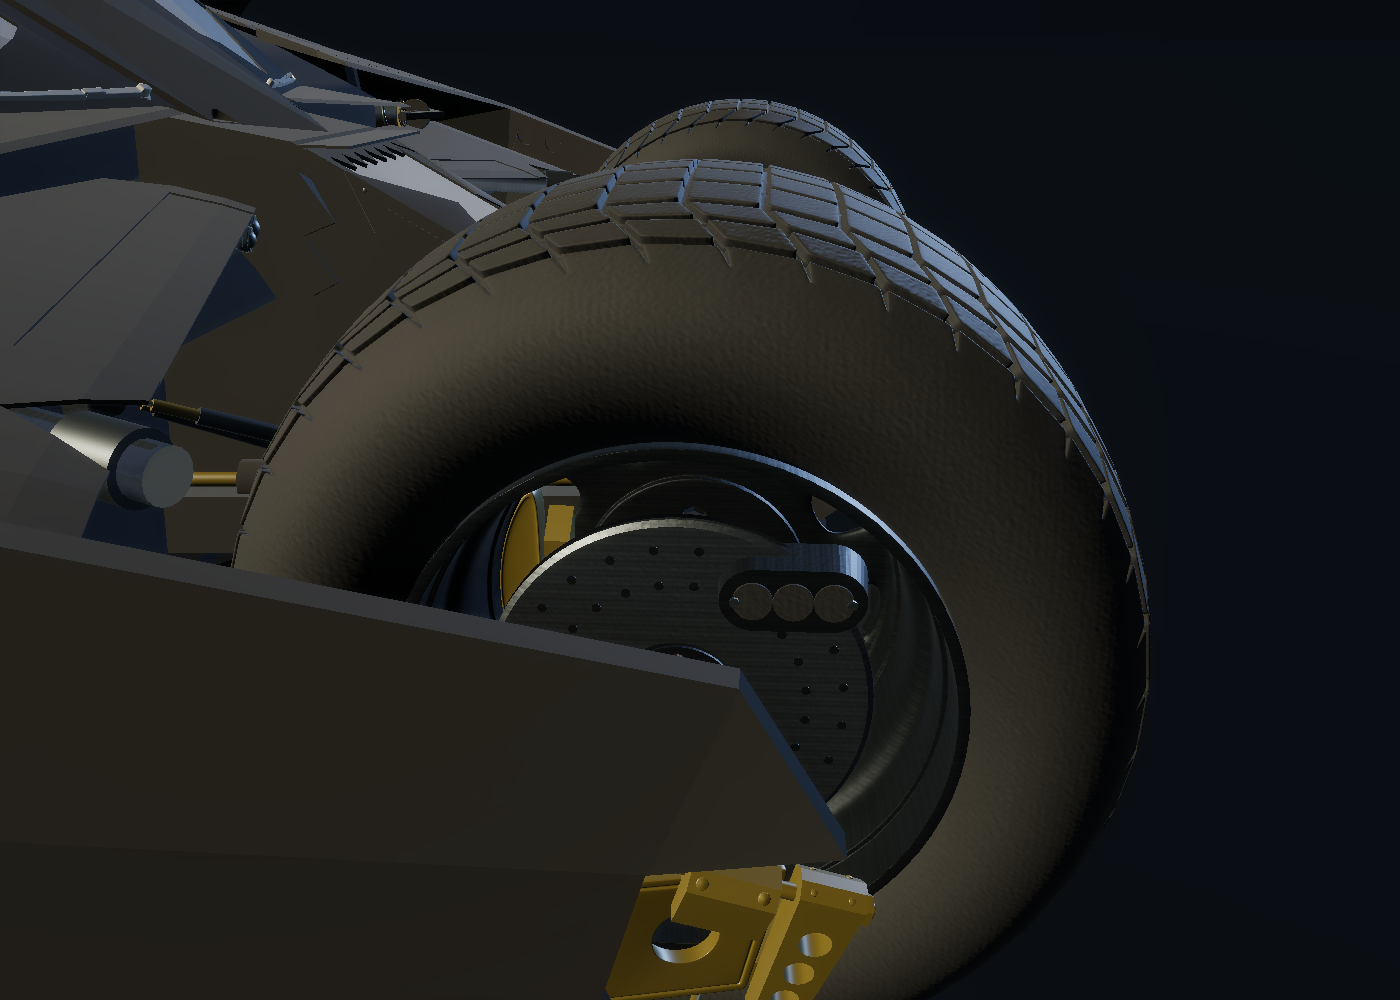
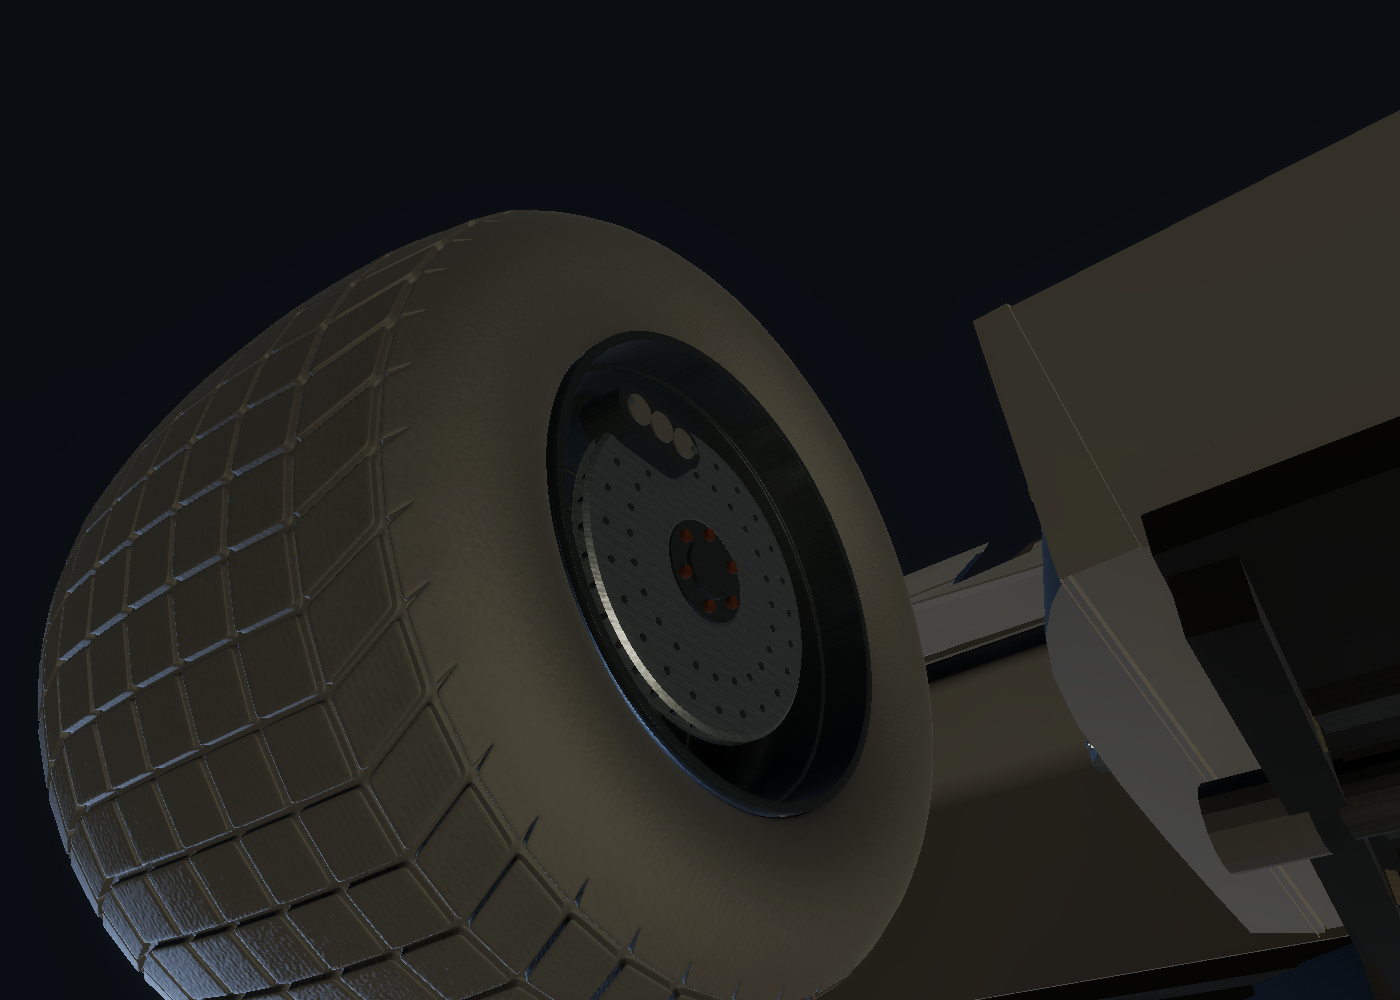
fix: mount all six brake assemblies on inner wheel faces

diff --git a/tools/night-systems/NightSystemsVerify.cs b/tools/night-systems/NightSystemsVerify.cs
@@ -241,12 +241,22 @@ public static class NightSystemsVerify
             var vertices=wheel.vertices;float rimRadius=wheel.GetTriangles(slot).Select(j=>new Vector2(vertices[j].y,vertices[j].z).magnitude).Max();
             var rotor=rotors[i].GetComponent<MeshFilter>().sharedMesh;float radius=rotor.vertices.Max(p=>new Vector2(p.y,p.z).magnitude);
             Check(radius<rimRadius*.71f,"Sport rotor "+i+" fits within 71 percent of the original rim radius");
-            int intersections=0;
+            float side=Mathf.Sign(car.transform.InverseTransformPoint(visuals[i].position).x);
+            float axial=(rotors[i].transform.localPosition.x-wheel.bounds.center.x)*side;
+            Check(axial<-.10f&&Mathf.Abs(axial)+rotor.bounds.extents.x<wheel.bounds.extents.x-.01f,"Rotor "+i+" is mounted on the inner wheel face and remains within the wheel envelope");
+            Check(Get<Vector3[]>(brakes,"caliperOffsets")[i].x*side<axial&&Get<Transform[]>(brakes,"calipers")[i].localScale.x==-side,"Caliper "+i+" follows the inboard disc with its detailed face toward the chassis");
+            int intersections=0,caliperIntersections=0;
+            var caliper=Get<Transform[]>(brakes,"calipers")[i];var caliperMesh=caliper.GetComponent<MeshFilter>().sharedMesh.bounds;
+            var box=caliper.gameObject.AddComponent<BoxCollider>();box.center=Vector3.zero;
+            var extent=caliperMesh.extents+new Vector3(Mathf.Abs(caliperMesh.center.x),Mathf.Abs(caliperMesh.center.y),Mathf.Abs(caliperMesh.center.z));
+            box.size=extent*2+Vector3.one*.002f;
             foreach(float angle in i<2?new[]{-40f,0f,40f}:new[]{0f})foreach(float travel in new[]{-.15f,0f,.15f})
             {
                 var rotation=car.transform.rotation*Quaternion.Euler(0,angle,0)*Quaternion.Inverse(car.transform.rotation)*visuals[i].rotation;
                 var center=visuals[i].position+car.transform.up*travel+rotation*rotors[i].transform.localPosition;
                 var axle=rotation*Vector3.right;
+                var caliperPosition=visuals[i].position+car.transform.up*travel+rotation*Get<Vector3[]>(brakes,"caliperOffsets")[i];
+                if(Physics.ComputePenetration(box,caliperPosition,rotation,surface,surface.transform.position,surface.transform.rotation,out var direction,out float depth)&&depth>.001f)caliperIntersections++;
                 foreach(float band in new[]{.45f,.70f,.93f})for(int j=0;j<32;j++)
                 {
                     float a=j*Mathf.PI*2/32;var p=center+rotation*new Vector3(0,Mathf.Cos(a)*radius*band,Mathf.Sin(a)*radius*band);
@@ -254,6 +264,8 @@ public static class NightSystemsVerify
                 }
             }
             Check(intersections==0,"Sport rotor "+i+" friction ring clears body surfaces across tested steering and suspension poses; hits="+intersections);
+            UnityEngine.Object.DestroyImmediate(box);
+            Check(caliperIntersections==0,"Inboard caliper "+i+" clears body and suspension surfaces at the tested poses; hits="+caliperIntersections);
         }
         UnityEngine.Object.DestroyImmediate(obstacle);
     }

diff --git a/tools/night-systems/MoveBrakeDiscsInboard.cs b/tools/night-systems/MoveBrakeDiscsInboard.cs
@@ -1,0 +1,45 @@
+using System;
+using System.Linq;
+using UnityEditor;
+using UnityEditor.SceneManagement;
+using UnityEngine;
+
+/// <summary>Moves existing brake assemblies onto the wheel faces that point toward the chassis.</summary>
+public static class MoveBrakeDiscsInboard
+{
+    public static void Run()
+    {
+        try
+        {
+            EditorSceneManager.OpenScene("Assets/_Project/Scenes/Sandbox.unity");
+            var vehicle=GameObject.Find("Tumbler").transform;
+            var thermal=new SerializedObject(vehicle.GetComponent<BrakeDiscThermal>());
+            var wheels=thermal.FindProperty("wheelVisuals");var rotors=thermal.FindProperty("rotors");
+            var calipers=thermal.FindProperty("calipers");var offsets=thermal.FindProperty("caliperOffsets");
+            for(int i=0;i<wheels.arraySize;i++)
+            {
+                var wheel=(Transform)wheels.GetArrayElementAtIndex(i).objectReferenceValue;
+                var rotor=((Renderer)rotors.GetArrayElementAtIndex(i).objectReferenceValue).transform;
+                var caliper=(Transform)calipers.GetArrayElementAtIndex(i).objectReferenceValue;
+                var mesh=wheel.GetComponent<MeshFilter>().sharedMesh;var center=mesh.bounds.center;
+                var materials=wheel.GetComponent<Renderer>().sharedMaterials;
+                int rim=Array.FindIndex(materials,m=>m.name=="Forged_Gunmetal");
+                if(rim<0)throw new Exception("Missing rim on "+wheel.name);
+                float side=Mathf.Sign(vehicle.InverseTransformPoint(wheel.TransformPoint(center)).x);
+                var vertices=mesh.vertices;var axial=mesh.GetTriangles(rim).Select(j=>(vertices[j].x-center.x)*side).ToArray();
+                float mount=-Mathf.Min(axial.Max(),mesh.bounds.extents.x)+.055f;
+                rotor.localPosition=center+Vector3.right*(side*mount);
+                var offset=offsets.GetArrayElementAtIndex(i).vector3Value;offset.x=side*(mount-.01f);
+                offsets.GetArrayElementAtIndex(i).vector3Value=offset;
+                caliper.localPosition=vehicle.InverseTransformPoint(wheel.TransformPoint(center))+offset;
+                caliper.localScale=new Vector3(-side,1,1);
+                EditorUtility.SetDirty(rotor);EditorUtility.SetDirty(caliper);
+                Debug.Log("INBOARD BRAKE "+i+" wheel="+wheel.name+" mount="+mount+" rimInner="+axial.Min()+" rimOuter="+axial.Max());
+            }
+            thermal.ApplyModifiedPropertiesWithoutUndo();
+            EditorSceneManager.MarkSceneDirty(vehicle.gameObject.scene);EditorSceneManager.SaveScene(vehicle.gameObject.scene);
+            Debug.Log("BRAKE ASSEMBLIES MOVED INBOARD");EditorApplication.Exit(0);
+        }
+        catch(Exception e){Debug.LogException(e);EditorApplication.Exit(1);}
+    }
+}

diff --git a/tools/night-systems/AuthorNightSystems.cs b/tools/night-systems/AuthorNightSystems.cs
@@ -170,15 +170,16 @@ public static class AuthorNightSystems
             float side=Mathf.Sign(vehicle.InverseTransformPoint(w.position).x);var vertices=mf.sharedMesh.vertices;
             foreach(int j in mf.sharedMesh.GetTriangles(Mathf.Max(0,ri)))
             {var p=vertices[j]-bounds.center;radius=Mathf.Max(radius,new Vector2(p.y,p.z).magnitude);outside=Mathf.Max(outside,p.x*side);}
-            radius*=.69f;outside=Mathf.Min(outside,bounds.extents.x)-.055f;
+            radius*=.69f;float inside=-Mathf.Min(outside,bounds.extents.x)+.055f;
             var g=new NightGeometry(3);g.Rotor(radius,.024f);
             var mesh=Store(g.Mesh("Brake_Disc_"+i),Art+"Meshes/Brake_Disc_"+i+".asset");
-            var disc=Model("Ventilated Brake Disc",w,mesh,steel,dark,bronze);disc.transform.localPosition=bounds.center+Vector3.right*(side*outside);
+            var disc=Model("Ventilated Brake Disc",w,mesh,steel,dark,bronze);disc.transform.localPosition=bounds.center+Vector3.right*(side*inside);
             rotors.Add(disc);centers.Add(bounds.center);
             var housing=new NightGeometry(3);housing.RoundedCaliper();
             var caliper=Model("Fixed Brake Caliper "+i,parent,Store(housing.Mesh("Brake_Caliper_"+i),Art+"Meshes/Brake_Caliper_"+i+".asset"),dark,rubber,steel);
-            var offset=new Vector3(side*(outside+.01f),radius*.65f,radius*.57f);offsets.Add(offset);
+            var offset=new Vector3(side*(inside-.01f),radius*.65f,radius*.57f);offsets.Add(offset);
             caliper.transform.localPosition=vehicle.InverseTransformPoint(w.TransformPoint(bounds.center))+offset;
+            caliper.transform.localScale=new Vector3(-side,1,1);
             calipers.Add(caliper.transform);
             for(int j=0;j<mats.Length;j++)
             {
@@ -187,7 +188,7 @@ public static class AuthorNightSystems
                 else if(mats[j].name.Contains("silver_nut"))mats[j]=steel;
             }
             r.sharedMaterials=mats;
-            Debug.Log("BRAKE FIT "+i+" radius="+radius+" axleOffset="+outside+" wheelMeshCenter="+bounds.center);
+            Debug.Log("BRAKE FIT "+i+" radius="+radius+" inboardAxleOffset="+inside+" wheelMeshCenter="+bounds.center);
         }
         var s=new SerializedObject(thermal);
         SetObjects(s,"wheels",wc.Cast<UnityEngine.Object>().ToArray());SetObjects(s,"wheelVisuals",visuals.Cast<UnityEngine.Object>().ToArray());

diff --git a/tools/night-systems/NightSystemsPreview.cs b/tools/night-systems/NightSystemsPreview.cs
@@ -64,11 +64,15 @@ public static class NightSystemsPreview
             Pose(new Vector3(2.15f,.45f,4.35f),new Vector3(.35f,-.1f,1.6f));Capture("headlight-optics-off",1600,1000);
             systems.SetLightMode(TumblerSystems.LightMode.High);Capture("headlight-optics-high",1600,1000);systems.SetLightMode(TumblerSystems.LightMode.Off);
             var brakes=vehicle.GetComponent<BrakeDiscThermal>();var rotors=Get<Renderer[]>(brakes,"rotors");
-            Pose(new Vector3(2.20f,.15f,2.45f),new Vector3(.94f,-.35f,2.375f));Capture("front-brake-cold",1400,1000);
+            key.transform.rotation=Quaternion.Euler(-35,110,0);fill.transform.rotation=Quaternion.Euler(-10,-75,0);
+            Pose(new Vector3(0,-1.15f,3.2f),new Vector3(.67f,-.35f,2.375f));Capture("front-brake-cold",1400,1000);
+            Pose(new Vector3(0,-1f,-3.5f),new Vector3(.61f,-.15f,-2.138f));Capture("rear-brake-inboard-cold",1400,1000);
             var block=new MaterialPropertyBlock();foreach(var r in rotors){block.SetColor("_BaseColor",new Color(.75f,.045f,.008f));block.SetColor("_EmissiveColor",new Color(1,.07f,.002f)*35);r.SetPropertyBlock(block,0);}
+            Pose(new Vector3(0,-1.15f,3.2f),new Vector3(.67f,-.35f,2.375f));
             Capture("front-brake-hot",1400,1000);
-            Pose(new Vector3(3.1f,.35f,-2.8f),new Vector3(1.15f,-.1f,-2.14f));Capture("rear-brakes-hot",1600,1000);
+            Pose(new Vector3(0,-1f,-3.5f),new Vector3(.61f,-.15f,-2.138f));Capture("rear-brakes-hot",1600,1000);
             foreach(var r in rotors)r.SetPropertyBlock(null,0);
+            key.transform.rotation=Quaternion.Euler(36,-32,0);fill.transform.rotation=Quaternion.Euler(12,120,0);
             Pose(new Vector3(.46f,.46f,-1.98f),new Vector3(.25f,-.10f,-1.52f));Capture("turbo-tanks-installed",1600,1100);
             var bodyFilter=vehicle.Find("Body").GetComponent<MeshFilter>();var bodyMesh=bodyFilter.sharedMesh;
             var cutaway=UnityEngine.Object.Instantiate(bodyMesh);cutaway.SetTriangles(Array.Empty<int>(),2,false);bodyFilter.sharedMesh=cutaway;

diff --git a/docs/tumbler-night-systems.md b/docs/tumbler-night-systems.md
@@ -6,7 +6,7 @@ Review branch: `feat/tumbler-lighting-stealth-and-detail`, based on the approved
 
 - The front floor addition tapers into the stock nose instead of extending wide rails beside the front tires. The original front body shape and collision hull are untouched.
 - All eight stock lamp surfaces receive fitted optical overlays with prismatic normal, base, mask and emission maps. Four upper lamps supply low beam; high beam uses all eight with a longer, narrower beam. HDRP spotlights use soft cone falloff, shadows and a local forward volumetric haze. Daylight exposure remains fixed at EV100 12.5; beams are naturally more visible in shadow/dusk than in direct sunlight.
-- Six smaller sports-style gray rotors have circular beveled friction rings, ventilated edges, round drilled detailing, dark hubs, bronze fasteners and separate rounded fixed calipers. The rotor radius is 69% of the stock rim radius, approximately 389 mm front / 430 mm rear diameter. Rotors sit 55 mm inboard of the outer rim extremity. The tire and rim surfaces use molded-rubber and brushed gunmetal PBR maps.
+- Six smaller sports-style gray rotors have circular beveled friction rings, ventilated edges, round drilled detailing, dark hubs, bronze fasteners and separate rounded fixed calipers. The rotor radius is 69% of the stock rim radius, approximately 389 mm front / 430 mm rear diameter. All six assemblies mount on the inner wheel faces toward the chassis, including the inboard faces of both tires in each rear pair. The earlier recessed mounts are mirrored across each wheel center; the discs sit approximately 44–56 mm inside the inner rim extremity. Calipers move with them and their detailed faces point inward. The tire and rim surfaces use molded-rubber and brushed gunmetal PBR maps.
 - Two inner boost pressure tanks replace the old assemblies in the same interior bays. Composite shells, retaining bands, valves, protected hoses and service stencils are separated from the rear coil-over shock absorbers and turbine. A 95 mm rearward / 35 mm lower adjustment and narrower shells provide body clearance without changing the surrounding vehicle geometry.
 - Both existing upper fuel caps are bronze. Shared lower-chassis hardware gains restrained machined-metal texture.
 
@@ -36,20 +36,22 @@ The existing digital speed, gear, drivetrain and colored RPM block stays at bott
 
 ## Verification
 
-Native Unity 6000.6.7f1 validation passed **94 edit-mode and 59 Play Mode assertions**, plus **82 edit-mode and 64 Play Mode handling regressions**. The [complete results](tumbler-night-systems/validation.json) include the virtual keyboard/Xbox inputs and original drivetrain/steering runs.
+Native Unity 6000.6.7f1 validation of the inboard mounts passed **112 edit-mode and 59 Play Mode assertions**. The earlier feature commit also passed **82 edit-mode and 64 Play Mode handling regressions**, retained as baseline results. This mount-only adjustment leaves runtime scripts, geometry assets, rigidbodies and colliders unchanged. The [complete results](tumbler-night-systems/validation.json) include the virtual keyboard/Xbox inputs and original drivetrain/steering runs.
 
 - Both tank shells pass a conservative hull check against the remaining body mesh, including the turbine and shocks. Their pressure lines also pass. The installed shells retain approximately 6.2 / 11.9 mm lateral clearance from the inner rear tires.
 - Exactly 5,316 old tank/valve/collar triangles are removed; every other original body triangle, vertex, normal and UV stays identical. All six original wheel meshes remain unchanged.
-- The new front-floor vertices clear inflated tire envelopes through ±40° steering and ±15 cm suspension travel, with a minimum measured separation of 102 mm. Sampled friction-ring probes find no body intersections at the tested steering/suspension poses.
+- The new front-floor vertices clear inflated tire envelopes through ±40° steering and ±15 cm suspension travel, with a minimum measured separation of 102 mm. Sampled friction-ring probes find no body intersections at the tested steering/suspension poses. All six discs are verified on the inner side of the wheel center; conservative caliper boxes also clear body/suspension surfaces at those poses.
 - Actual per-wheel service/handbrake torque, production thermal updates, cooldown, stationary brakes, hidden heat during stealth, non-spinning calipers, reserve exhaustion/re-arming, delayed/airborne refill, light presets and empty-reserve stealth exit all pass.
 - FWD, RWD and AWD each reach seventh gear and approximately 260.04 km/h in the native physics regression. Existing steering, reset, braking and RPM/audio-pitch assertions pass.
 - Native Vulkan HDRP renders verify the optics, gray/red rotors, fitted tanks, steering clearance and HUD at 720p, 1080p and ultrawide. The actual render-request camera resolves volumetrics enabled with volumetric fog enabled. The gameplay camera uses the same default HDRP frame settings.
 
 Physical Xbox hardware, subjective driving/audio evaluation, performance profiling and a standalone player build still require manual testing. Unity's QuickSearch startup indexer emitted an editor-only exception during headless runs; the assertions and captures completed successfully.
 
-![Smaller sports-style brake disc, cold](tumbler-night-systems/front-brake-cold.png)
+![Sports-style brake disc on the inner front wheel face, cold](tumbler-night-systems/front-brake-cold.png)
 
 ![The same disc at peak visual heat](tumbler-night-systems/front-brake-hot.png)
+
+![Inner rear wheel brake beside the original shock and turbine](tumbler-night-systems/rear-brake-inboard-cold.png)
 
 ![Replacement pressure tank in the interior engine bay](tumbler-night-systems/turbo-tanks-installed.png)
 
@@ -68,6 +70,8 @@ The helpers are outside `Assets` so they do not become game code. To reproduce i
 5. Remove the temporary `_NightAuthoring` folder and its `.meta` before committing.
 
 `AuthorNightSystems.Run` rebuilds equipment assets in a disposable copy. It preserves asset GUIDs but Unity may reserialize unrelated legacy scene data when saving; review the scene diff before keeping an authored result.
+
+`MoveBrakeDiscsInboard.Run` relocates existing discs and calipers without rebuilding their meshes. It also updates the runtime caliper offsets; moving only the visible caliper transforms would be overwritten during play.
 
 ## Manual review checklist
 

diff --git a/README.md b/README.md
@@ -13,7 +13,7 @@ This repository (`tumbler-sandbox`) is a learning project, not a finished commer
 - Finite boost reserve with forward impulses, particles and jet audio; delayed recharge is faster in the air.
 - Eight textured headlights with off/low/high states and actual HDRP volumetric spot beams.
 - Reversible Bat stealth mode that conceals vehicle lights, turbine particles and brake glow, and mutes engine audio while preserving driving controls.
-- Six ventilated gray brake discs, fixed calipers and progressive red incandescence based on each wheel's applied brake torque. Service braking heats all six; handbraking heats the rear four.
+- Six ventilated gray brake discs and fixed calipers mounted on the inner wheel faces, with progressive red incandescence based on each wheel's applied brake torque. Service braking heats all six; handbraking heats the rear four.
 - Switchable AWD, FWD and RWD, seven automatic forward gears and a 260 km/h forward governor.
 - Speed-sensitive steering with full parking lock and a retained steering allowance at high speed.
 - Vehicle reset and low-speed upright recovery.
@@ -187,7 +187,7 @@ Validation performed:
 - Ground-contact regression: isolated support under each of the six wheels, rear-only support, all-wheel support, airborne and contact-loss cases. Repeat these with `tools/verify-driving-ground.py`; see [test-ground validation instructions](docs/driving-test-ground.md#validation).
 - Underbody collision checks compare the original and updated vehicle on temporary rail, curb and platform fixtures, plus an isolated high-speed lower-hull impact. Repeat with `tools/verify-chassis.py`; see [method and limitations](docs/underbody-collision.md#validation).
 - Current vehicle checks cover FWD/RWD/AWD reaching seventh and 260 km/h without boost, RPM/pitch drops, shift stability, braking/reset, high-speed and sustained steering, virtual keyboard/Xbox inputs, HUD values/colors/layout and visual-only underbody geometry. Repeat with `tools/verify-tumbler-update.py` (or `tools/verify-handling.py`); add `--graphics` for native HDRP previews. See [method, results and limits](docs/tumbler-upgrade.md#verification).
-- The review-branch [equipment/night-systems validation](docs/tumbler-night-systems/validation.json) passes 153 new assertions and 146 handling regressions, covering replacement-tank clearance, smaller heated rotors, keyboard/virtual Xbox controls, lights/stealth, finite turbo and HUD states. Native HDRP/Vulkan captures verify the visual equipment and enabled volumetrics; physical controller and player-build checks remain manual.
+- The review-branch [equipment/night-systems validation](docs/tumbler-night-systems/validation.json) passes 171 current equipment assertions, with 146 handling regressions recorded for the feature baseline. Checks cover tank clearance, inboard rotors/calipers through steering and suspension travel, brake heat, keyboard/virtual Xbox controls, lights/stealth, finite turbo and HUD states. Native HDRP/Vulkan captures verify the visual equipment and enabled volumetrics; physical controller and player-build checks remain manual.
 - Authentic HDRP renders of the overview, ramps, suspension and surface areas, plus static preservation and asset-reference checks. Results are recorded in [test-ground validation](docs/driving-test-ground-validation.json).
 - Contact-mark/menu/exposure checks: native braking and unbraked sliding generate projected marks, asphalt/camber vertices follow the surface, airborne/reset motion creates no bridging strokes, the Vulkan shader renders and fades, and the resolved exposure stays fixed at different camera angles. See [visual validation](docs/visual-feedback-validation.json).
 - **Not run:** physical controller driving, timed handling/braking comparisons, repeated landings at different speeds, performance profiling, audio evaluation or player builds. Grip and visual values are initial profiles for personal tuning.
